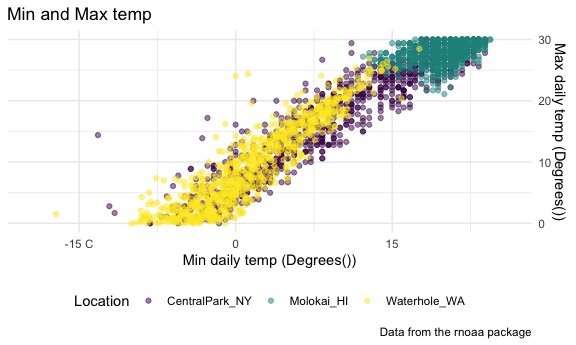
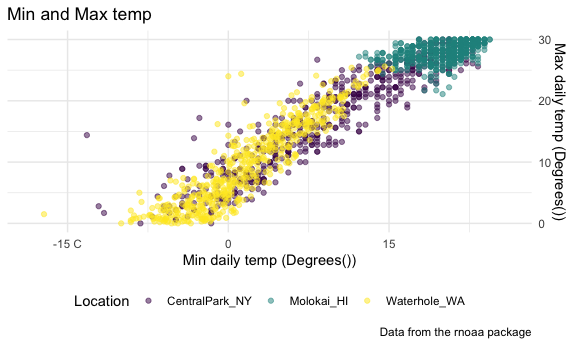
change date

diff --git a/Visualization2.md b/Visualization2.md
@@ -42,7 +42,7 @@ weather_df =
   rnoaa::meteo_pull_monitors(
     c("USW00094728", "USW00022534", "USS0023B17S"),
     var = c("PRCP", "TMIN", "TMAX"), 
-    date_min = "2021-01-01",
+    date_min = "2022-01-01",
     date_max = "2023-12-31") |>
   mutate(
     name = recode(
@@ -77,20 +77,20 @@ weather_df =
 weather_df
 ```
 
-    ## # A tibble: 3,009 × 6
+    ## # A tibble: 1,914 × 6
     ##    name           id          date        prcp  tmax  tmin
     ##    <chr>          <chr>       <date>     <dbl> <dbl> <dbl>
-    ##  1 CentralPark_NY USW00094728 2021-01-01   157   4.4   0.6
-    ##  2 CentralPark_NY USW00094728 2021-01-02    13  10.6   2.2
-    ##  3 CentralPark_NY USW00094728 2021-01-03    56   3.3   1.1
-    ##  4 CentralPark_NY USW00094728 2021-01-04     5   6.1   1.7
-    ##  5 CentralPark_NY USW00094728 2021-01-05     0   5.6   2.2
-    ##  6 CentralPark_NY USW00094728 2021-01-06     0   5     1.1
-    ##  7 CentralPark_NY USW00094728 2021-01-07     0   5    -1  
-    ##  8 CentralPark_NY USW00094728 2021-01-08     0   2.8  -2.7
-    ##  9 CentralPark_NY USW00094728 2021-01-09     0   2.8  -4.3
-    ## 10 CentralPark_NY USW00094728 2021-01-10     0   5    -1.6
-    ## # ℹ 2,999 more rows
+    ##  1 CentralPark_NY USW00094728 2022-01-01   201  13.3  10  
+    ##  2 CentralPark_NY USW00094728 2022-01-02    10  15     2.8
+    ##  3 CentralPark_NY USW00094728 2022-01-03     0   2.8  -5.5
+    ##  4 CentralPark_NY USW00094728 2022-01-04     0   1.1  -7.1
+    ##  5 CentralPark_NY USW00094728 2022-01-05    58   8.3  -0.5
+    ##  6 CentralPark_NY USW00094728 2022-01-06     0   5     1.1
+    ##  7 CentralPark_NY USW00094728 2022-01-07    97   1.1  -3.8
+    ##  8 CentralPark_NY USW00094728 2022-01-08     0  -1    -6.6
+    ##  9 CentralPark_NY USW00094728 2022-01-09    25   4.4  -1.6
+    ## 10 CentralPark_NY USW00094728 2022-01-10     0   4.4  -4.3
+    ## # ℹ 1,904 more rows
 
 ``` r
 weather_df |> 
@@ -114,7 +114,7 @@ weather_df |>
   )
 ```
 
-    ## Warning: Removed 456 rows containing missing values (`geom_point()`).
+    ## Warning: Removed 322 rows containing missing values (`geom_point()`).
 
 <img src="Visualization2_files/figure-gfm/unnamed-chunk-3-1.png" width="90%" />
 
@@ -137,7 +137,7 @@ weather_df |>
   theme(legend.position = "bottom")
 ```
 
-    ## Warning: Removed 33 rows containing missing values (`geom_point()`).
+    ## Warning: Removed 30 rows containing missing values (`geom_point()`).
 
 <img src="Visualization2_files/figure-gfm/unnamed-chunk-4-1.png" width="90%" />
 
@@ -148,11 +148,11 @@ weather_df |>
   geom_smooth(aes(color = name))
 ```
 
-    ## `geom_smooth()` using method = 'gam' and formula = 'y ~ s(x, bs = "cs")'
+    ## `geom_smooth()` using method = 'loess' and formula = 'y ~ x'
 
-    ## Warning: Removed 33 rows containing non-finite values (`stat_smooth()`).
+    ## Warning: Removed 30 rows containing non-finite values (`stat_smooth()`).
 
-    ## Warning: Removed 33 rows containing missing values (`geom_point()`).
+    ## Warning: Removed 30 rows containing missing values (`geom_point()`).
 
 <img src="Visualization2_files/figure-gfm/unnamed-chunk-5-1.png" width="90%" />
 
@@ -200,12 +200,12 @@ tmax_date_p =
 (ggp_temp_scatter + ggp_prep_weather)/ tmax_date_p
 ```
 
-    ## Warning: Removed 33 rows containing missing values (`geom_point()`).
+    ## Warning: Removed 30 rows containing missing values (`geom_point()`).
 
-    ## `geom_smooth()` using method = 'gam' and formula = 'y ~ s(x, bs = "cs")'
+    ## `geom_smooth()` using method = 'loess' and formula = 'y ~ x'
 
-    ## Warning: Removed 33 rows containing non-finite values (`stat_smooth()`).
-    ## Removed 33 rows containing missing values (`geom_point()`).
+    ## Warning: Removed 30 rows containing non-finite values (`stat_smooth()`).
+    ## Removed 30 rows containing missing values (`geom_point()`).
 
 <img src="Visualization2_files/figure-gfm/unnamed-chunk-7-1.png" width="90%" />
 
@@ -218,7 +218,7 @@ weather_df |>
   geom_boxplot()
 ```
 
-    ## Warning: Removed 33 rows containing non-finite values (`stat_boxplot()`).
+    ## Warning: Removed 30 rows containing non-finite values (`stat_boxplot()`).
 
 <img src="Visualization2_files/figure-gfm/unnamed-chunk-8-1.png" width="90%" />
 
@@ -233,11 +233,11 @@ weather_df |>
     ## Warning: There was 1 warning in `mutate()`.
     ## ℹ In argument: `name = fct_reorder(name, tmax)`.
     ## Caused by warning:
-    ## ! `fct_reorder()` removing 33 missing values.
+    ## ! `fct_reorder()` removing 30 missing values.
     ## ℹ Use `.na_rm = TRUE` to silence this message.
     ## ℹ Use `.na_rm = FALSE` to preserve NAs.
 
-    ## Warning: Removed 33 rows containing non-finite values (`stat_ydensity()`).
+    ## Warning: Removed 30 rows containing non-finite values (`stat_ydensity()`).
 
 <img src="Visualization2_files/figure-gfm/unnamed-chunk-9-1.png" width="90%" />
 
